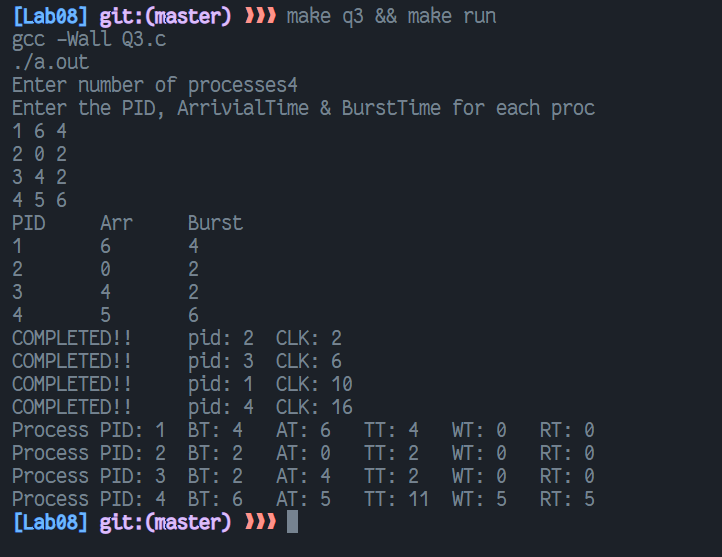
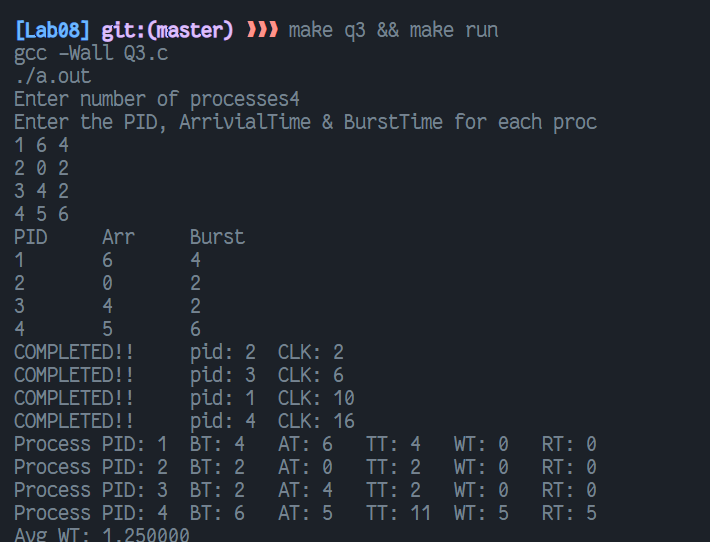
Done Lab08 3/3

Changed region(s): [[0.0, 0.0, 0.8366, 1.0], [0.7437, 0.738, 0.8366, 0.9742], [0.6197, 0.738, 0.7127, 0.9742]]

diff --git a/Lab08/Q3.c b/Lab08/Q3.c
@@ -119,14 +119,17 @@ void proc() {
 }
 
 void ReportDis() {
+  int Swt = 0;
   for (int i = 0; i < NoOfProcesses; i++)
   {
     int TT = Rqueue[i].finalEndTime - Rqueue[i].arrTime;
     int RT = Rqueue[i].initStartTime - Rqueue[i].arrTime;
     int WT = TT - tempStoreBT[i];
+    Swt += WT;
     printf("Process\tPID: %d\tBT: %d\tAT: %d\tTT: %d\tWT: %d\tRT: %d\n",
            Rqueue[i].pid, tempStoreBT[i], Rqueue[i].arrTime, TT, WT, RT);
   }
+  printf("Avg WT: %f\n", (float)(Swt)/NoOfProcesses);
 }
 
 int main() {

diff --git a/Lab08/Q4.c b/Lab08/Q4.c
@@ -130,14 +130,17 @@ void proc() {
 }
 
 void ReportDis() {
+  int Swt = 0;
   for (int i = 0; i < NoOfProcesses; i++)
   {
     int TT = Rqueue[i].finalEndTime - Rqueue[i].arrTime;
     int RT = Rqueue[i].initStartTime - Rqueue[i].arrTime;
     int WT = TT - tempStoreBT[i];
+    Swt += WT;
     printf("Process\tPID: %d\tBT: %d\tAT: %d\tTT: %d\tWT: %d\tRT: %d\n",
            Rqueue[i].pid, tempStoreBT[i], Rqueue[i].arrTime, TT, WT, RT);
   }
+  printf("Avg WT: %f\n", (float)(Swt)/NoOfProcesses);
 }
 
 int main() {

diff --git a/Lab08/20051554_Lab07.md b/Lab08/20051554_Lab07.md
@@ -129,7 +129,7 @@ void __CPU_SCHED(int idx) {
     Rqueue[idx].finalEndTime = CLK_CYCLE;
   }
   // record the Complition time for a process
-  Rqueue[idx].currState = TERMINATED;
+  Rqueue[idx].currState = TERMINATED;  
   printf("COMPLETED!!\tpid: %d\tCLK: %ld\n", Rqueue[idx].pid, CLK_CYCLE);
 }
 
@@ -484,14 +484,17 @@ void proc() {
 }
 
 void ReportDis() {
+  int Swt = 0;
   for (int i = 0; i < NoOfProcesses; i++)
   {
     int TT = Rqueue[i].finalEndTime - Rqueue[i].arrTime;
     int RT = Rqueue[i].initStartTime - Rqueue[i].arrTime;
     int WT = TT - tempStoreBT[i];
+    Swt += WT;
     printf("Process\tPID: %d\tBT: %d\tAT: %d\tTT: %d\tWT: %d\tRT: %d\n",
            Rqueue[i].pid, tempStoreBT[i], Rqueue[i].arrTime, TT, WT, RT);
   }
+  printf("Avg WT: %f\n", (float)(Swt)/NoOfProcesses);
 }
 
 int main() {
@@ -657,14 +660,17 @@ void proc() {
 }
 
 void ReportDis() {
+  int Swt = 0;
   for (int i = 0; i < NoOfProcesses; i++)
   {
     int TT = Rqueue[i].finalEndTime - Rqueue[i].arrTime;
     int RT = Rqueue[i].initStartTime - Rqueue[i].arrTime;
     int WT = TT - tempStoreBT[i];
+    Swt += WT;
     printf("Process\tPID: %d\tBT: %d\tAT: %d\tTT: %d\tWT: %d\tRT: %d\n",
            Rqueue[i].pid, tempStoreBT[i], Rqueue[i].arrTime, TT, WT, RT);
   }
+  printf("Avg WT: %f\n", (float)(Swt)/NoOfProcesses);
 }
 
 int main() {

diff --git a/README.md b/README.md
@@ -1,0 +1,26 @@
+# OS-Lab
+
+Author: `Dipankar Das`
+
+Last Updated: 7-4-22
+
+Topics Covered
+- [x] Bash Scripting
+- [x] process creating i.e. fork()
+- [x] process synchronization
+- [x] process scheduling
+  - [x] FCFS
+  - [x] SJFS (preemptive)
+  - [x] SJFS (non-preemptive)
+
+Version
+Lab_no | Status
+-|-
+8 | ✒
+7 | 🚀
+6 | 🚀
+5 | 🚀
+4 | 🚀
+3 | 🚀
+2 | 🚀
+1 | 🚀
